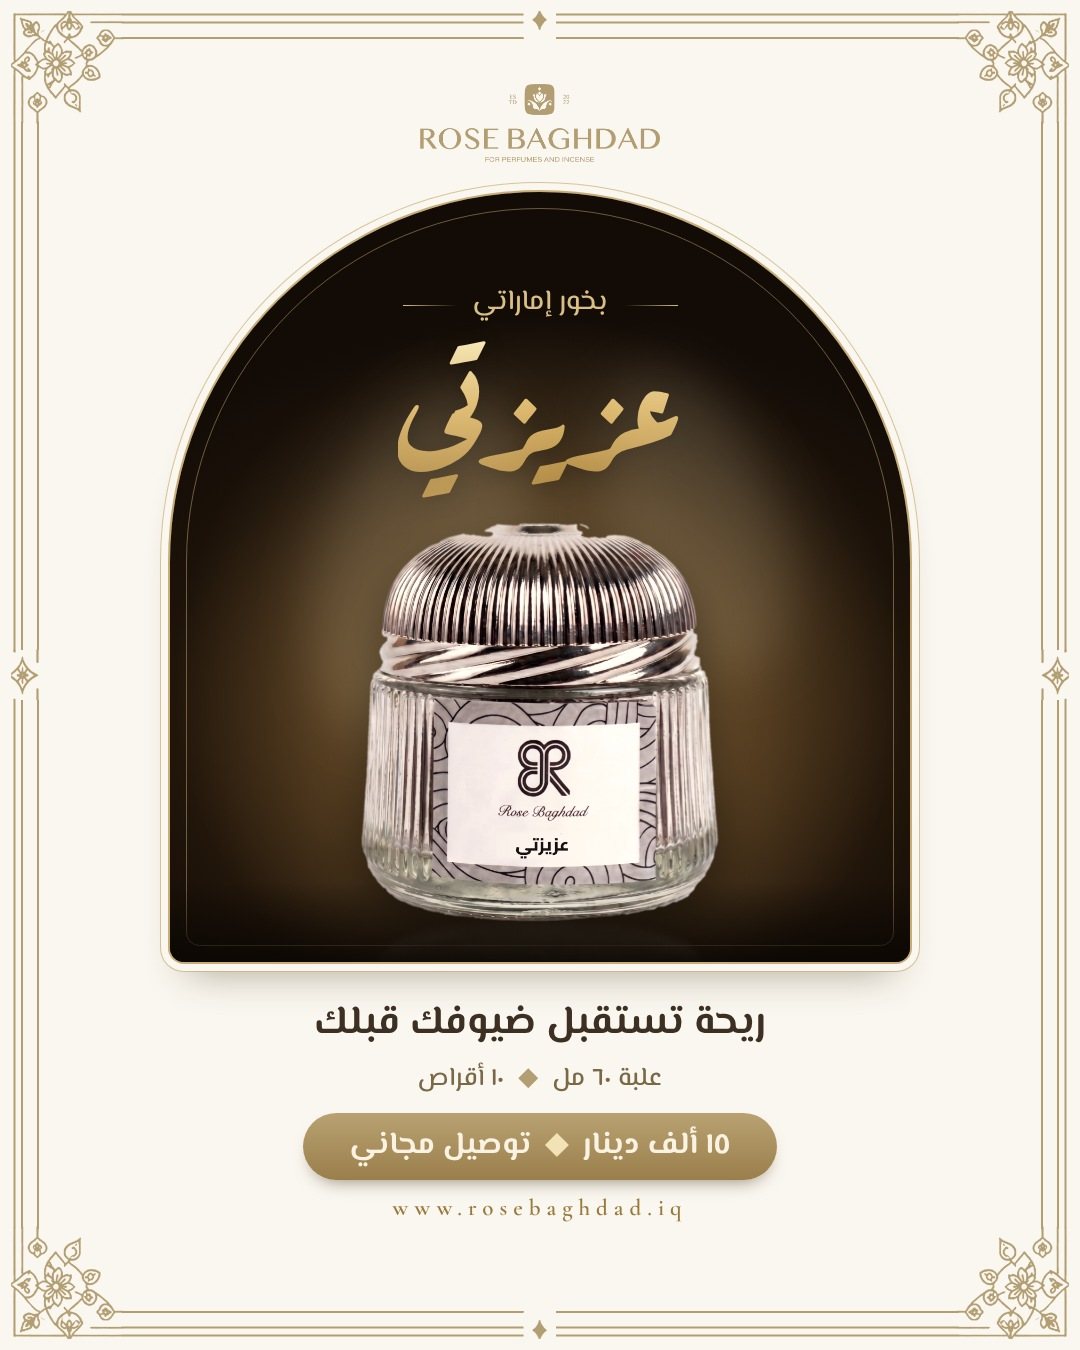
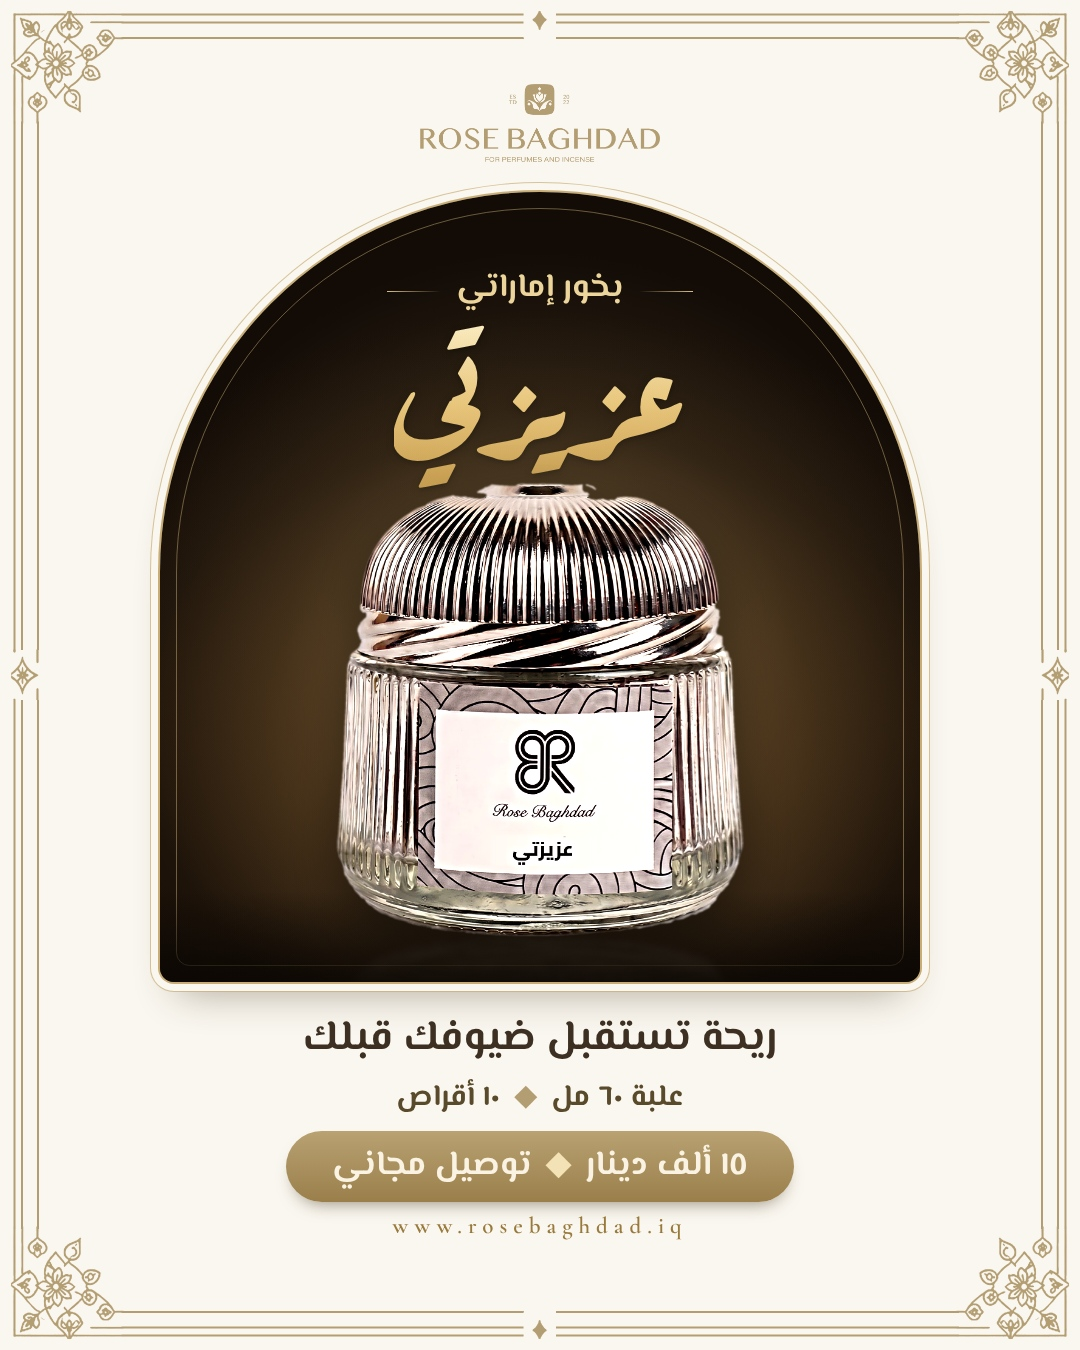
Incense cards: sharper jar, larger product and text
Claude-Session: https://claude.ai/code/session_01HXze8h1ERTKVVJtJjHvpYz

Changed region(s): [[0.1222, 0.1867, 0.8556, 0.9333], [0.6111, 0.1556, 0.7333, 0.2178], [0.3056, 0.1556, 0.3667, 0.1867]]

diff --git a/tools/frame/incense_card.html b/tools/frame/incense_card.html
@@ -10,18 +10,18 @@ html,body{margin:0;background:#faf7f0}
 #r>*:not(#fr){position:relative}
 .arch{overflow:hidden;background:radial-gradient(ellipse 75% 55% at 50% 70%,#6a4720 0%,#3a2611 38%,#1c1209 72%,#120b06 100%);box-shadow:0 0 0 2px #c9ad74,0 0 0 9px #faf7f0,0 0 0 10px rgba(201,173,116,.7),0 26px 40px -18px rgba(61,46,20,.45);display:flex;flex-direction:column;align-items:center}
 .arch:before{content:"";position:absolute;inset:16px;border:1px solid rgba(214,186,128,.45);border-radius:inherit;pointer-events:none}
-.kick{font-family:EM;font-weight:500;direction:rtl;color:#d9bf85;position:relative}
+.kick{font-family:EM;font-weight:700;direction:rtl;color:#ecd59c;position:relative}
 .kick:before,.kick:after{content:"";position:absolute;top:55%;width:54px;height:1px;background:linear-gradient(90deg,rgba(217,191,133,0),#d9bf85)}
 .kick:before{right:calc(100% + 16px);transform:scaleX(-1)}.kick:after{left:calc(100% + 16px)}
-.name{font-family:RQ;font-weight:700;direction:rtl;line-height:1.5;background:linear-gradient(180deg,#f7e7b8 18%,#d8b469 52%,#a57f3a 86%);-webkit-background-clip:text;background-clip:text;color:transparent;filter:drop-shadow(0 3px 10px rgba(0,0,0,.45));position:relative}
+.name{font-family:RQ;font-weight:700;direction:rtl;line-height:1.5;background:linear-gradient(180deg,#fbeec6 15%,#e6c57c 55%,#c39a4c 90%);-webkit-background-clip:text;background-clip:text;color:transparent;filter:drop-shadow(0 2px 3px rgba(0,0,0,.6));position:relative}
 .stage{position:absolute;left:0;right:0;bottom:0;display:flex;justify-content:center}
-.spot{position:absolute;left:50%;transform:translateX(-50%);border-radius:50%;background:radial-gradient(circle,rgba(255,220,150,.42) 0%,rgba(255,206,128,.14) 42%,rgba(255,206,128,0) 68%)}
+.spot{position:absolute;left:50%;transform:translateX(-50%);border-radius:50%;background:radial-gradient(circle,rgba(255,220,150,.34) 0%,rgba(255,206,128,.10) 42%,rgba(255,206,128,0) 68%)}
 .floor{position:absolute;left:0;right:0;bottom:0;background:linear-gradient(rgba(18,11,6,0),rgba(10,6,3,.85))}
-.jar{position:absolute;left:50%;transform:translateX(-50%);filter:drop-shadow(0 22px 26px rgba(0,0,0,.55)) saturate(.9) contrast(1.06)}
+.jar{position:absolute;left:50%;transform:translateX(-50%);filter:drop-shadow(0 22px 26px rgba(0,0,0,.55)) brightness(1.06)}
 .refl{position:absolute;left:50%;transform:translateX(-50%) scaleY(-1);opacity:.22;filter:blur(3px);-webkit-mask-image:linear-gradient(to top,#000 0%,rgba(0,0,0,0) 38%);mask-image:linear-gradient(to top,#000 0%,rgba(0,0,0,0) 38%)}
 .smoke{position:absolute;border-radius:50%;filter:blur(26px);background:rgba(255,236,200,.13)}
 .hook{font-family:EM;font-weight:700;direction:rtl;color:#3d3023;text-align:center}
-.spec{font-family:EM;font-weight:500;direction:rtl;color:#7a6846}
+.spec{font-family:EM;font-weight:700;direction:rtl;color:#5a4a2c}
 .spec b,.pill b{color:#b39d72;font-weight:500;margin:0 14px}
 .pill{font-family:EM;font-weight:700;direction:rtl;color:#faf3e3;background:linear-gradient(180deg,#b9a172,#9a7f4b);border-radius:60px;box-shadow:0 10px 18px -10px rgba(61,46,20,.6)}
 .pill b{color:#f3e2b5}
@@ -29,24 +29,22 @@ html,body{margin:0;background:#faf7f0}
 </style></head><body><div id="r"></div>
 <script>
 const q=new URLSearchParams(location.search),S=q.get('f')==='story',r=document.getElementById('r');
-const AW=S?800:740,AH=S?1010:770,J=S?520:400,k=q.get('k');
+const AW=S?820:760,AH=S?1040:790,J=S?600:455,k=q.get('k');
 r.style.height=(S?1920:1350)+'px';
 r.innerHTML=`<img id="fr" src="frame_${S?'story':'feed'}.png">
 <img src="../reel/horizontal_gold.png" style="width:${S?300:240}px;margin-top:${S?225:84}px">
 <div class="arch" style="width:${AW}px;height:${AH}px;border-radius:${AW/2}px ${AW/2}px 14px 14px;margin-top:${S?44:30}px">
- <div class="kick" style="font-size:${S?34:28}px;margin-top:${S?120:88}px">بخور إماراتي</div>
- <div class="name" style="font-size:${S?170:136}px;margin-top:${S?-18:-20}px">${q.get('name')}</div>
+ <div class="kick" style="font-size:${S?40:33}px;margin-top:${S?96:70}px">بخور إماراتي</div>
+ <div class="name" style="font-size:${S?176:140}px;margin-top:${S?-26:-26}px">${q.get('name')}</div>
  <div class="stage" style="height:${J*1.25}px">
   <div class="spot" style="width:${J*1.9}px;height:${J*1.9}px;bottom:${-J*.25}px"></div>
-  <div class="smoke" style="width:${J*.5}px;height:${J*.9}px;left:${AW*.2}px;bottom:${J*.55}px;transform:rotate(18deg)"></div>
-  <div class="smoke" style="width:${J*.4}px;height:${J*.8}px;right:${AW*.18}px;bottom:${J*.7}px;transform:rotate(-22deg)"></div>
   <img class="refl" src="cut/${k}.png" style="height:${J}px;bottom:${J*.11-J}px">
   <div class="floor" style="height:${J*.2}px"></div>
   <img class="jar" src="cut/${k}.png" style="height:${J}px;bottom:${J*.1}px">
  </div>
 </div>
-<div class="hook" style="font-size:${S?48:40}px;margin-top:${S?50:30}px">${q.get('hook')}</div>
-<div class="spec" style="font-size:${S?32:26}px;margin-top:${S?14:4}px">علبة ٦٠ مل<b>◆</b>١٠ أقراص</div>
-<div class="pill" style="font-size:${S?38:31}px;padding:${S?'12px 56px 14px':'8px 46px 10px'};margin-top:${S?28:14}px">١٥ ألف دينار<b>◆</b>توصيل مجاني</div>
-<div class="url" style="font-size:${S?28:23}px;margin-top:${S?30:14}px">www.rosebaghdad.iq</div>`;
+<div class="hook" style="font-size:${S?52:42}px;margin-top:${S?44:24}px">${q.get('hook')}</div>
+<div class="spec" style="font-size:${S?36:30}px;margin-top:${S?12:2}px">علبة ٦٠ مل<b>◆</b>١٠ أقراص</div>
+<div class="pill" style="font-size:${S?42:34}px;padding:${S?'12px 56px 14px':'8px 46px 10px'};margin-top:${S?24:10}px">١٥ ألف دينار<b>◆</b>توصيل مجاني</div>
+<div class="url" style="font-size:${S?28:23}px;margin-top:${S?26:10}px">www.rosebaghdad.iq</div>`;
 </script></body></html>

diff --git a/tools/frame/incense.py b/tools/frame/incense.py
@@ -25,6 +25,11 @@ def cut(im):
     al=Image.fromarray(((~bg)*255).astype('uint8')).filter(ImageFilter.MinFilter(9)).filter(ImageFilter.GaussianBlur(2.5))
     # warm the cold studio whites slightly so the glass sits on the cream ground
     warm=ImageChops.multiply(im,Image.new('RGB',im.size,(255,250,240)))
+    # clarity: local contrast + crisp edges so the ribs, lid and label read sharply at post size
+    from PIL import ImageEnhance
+    warm=warm.filter(ImageFilter.UnsharpMask(radius=14,percent=45,threshold=0))
+    warm=ImageEnhance.Contrast(warm).enhance(1.14)
+    warm=warm.filter(ImageFilter.UnsharpMask(radius=2.2,percent=130,threshold=2))
     o=warm.convert('RGBA'); o.putalpha(al); return o.crop(o.getbbox())
 async def main():
   os.makedirs(H+'/cut',exist_ok=True)
@@ -41,6 +46,6 @@ async def main():
       os.makedirs(f'{R}/posts/incense-{k}',exist_ok=True)
       for f,sz in [('feed','1080x1350'),('story','1080x1920')]:
         await pg.goto('file://'+H+'/incense_card.html?'+urllib.parse.urlencode({'k':'incense-'+k,'name':n,'hook':hook,'f':f}));await pg.evaluate('document.fonts.ready');await pg.wait_for_timeout(400)
-        await pg.locator('#r').screenshot(path=f'{R}/posts/incense-{k}/{f}-{sz}.jpg',type='jpeg',quality=93)
+        await pg.locator('#r').screenshot(path=f'{R}/posts/incense-{k}/{f}-{sz}.jpg',type='jpeg',quality=97)
     await b.close()
 asyncio.run(main())
